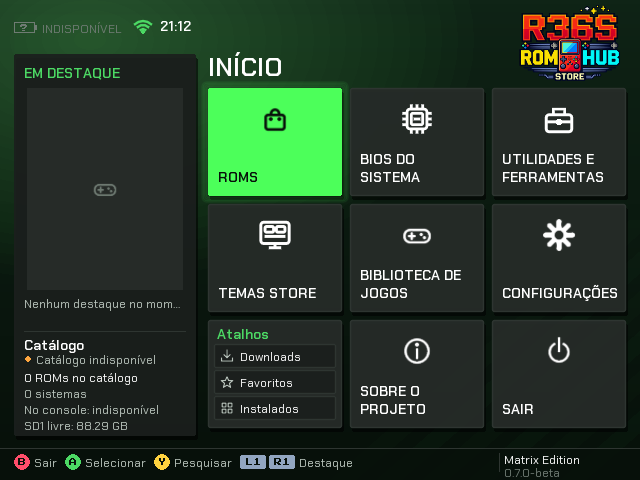
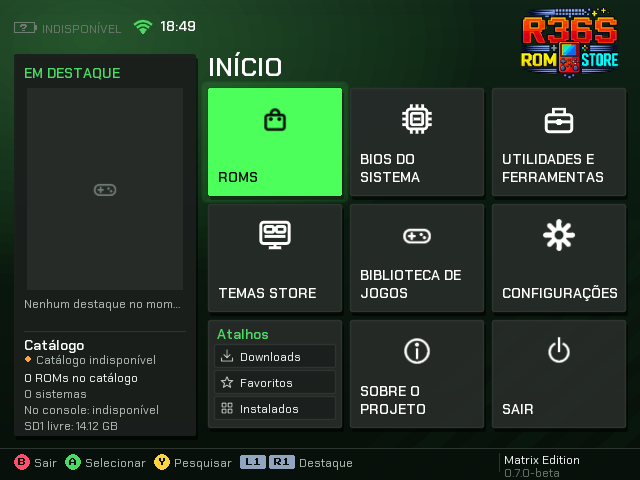
docs: aplicar apresentação aprovada sem antecipar lançamento oficial
Assisted-by: ChatGPT (OpenAI)

Changed region(s): [[0.8125, 0.0, 0.9688, 0.1875], [0.25, 0.0312, 0.3125, 0.0625], [0.125, 0.875, 0.1875, 0.9062]]

diff --git a/docs/README.ru.md b/docs/README.ru.md
@@ -1,0 +1,52 @@
+<p align="center"><img src="images/atual/logo_hd.png" alt="R36S ROM STORE" width="340"></p>
+
+# R36S ROM STORE
+
+<p align="center">
+  <img alt="R36S e R36H" src="https://img.shields.io/badge/Console-R36S%20%7C%20R36H-0891b2?style=for-the-badge">
+  <img alt="Sistemas: dArkOSRE, dArkOS, ArkOS, ArchR, Omni36OS" src="https://img.shields.io/badge/Sistema-dArkOSRE%20%7C%20dArkOS%20%7C%20ArkOS%20%7C%20ArchR%20%7C%20Omni36OS-ffdc49?style=for-the-badge">
+</p>
+
+[🇧🇷 Português](../README.md) · [🇺🇸 English](README.en.md) · [🇪🇸 Español](README.es.md) · [🇷🇺 Русский](README.ru.md)
+
+**Статус:** 0.7.0-beta — официальная бета-версия.
+
+## О проекте
+
+Независимое приложение для ретроигр на R36S и R36H, разработанное на Lua и LÖVE 11.5. Каталог ROM, поиск, обложки, избранное, локальная библиотека, установка на SD1/SD2, BIOS, темы EmulationStation, очередь и история загрузок, инструменты. Две встроенные темы Matrix и Pulse; четыре языка.
+
+## Важно
+
+⚠ **Бета-версия.** Основные функции протестированы в симулированной среде на компьютере и на консолях R36S и R36H. Некоторые функции и сочетания операционных систем требуют дополнительной проверки. Приветствуются сообщения об ошибках, предложения и вклад сообщества.
+
+Создайте резервную копию и используйте только разрешённые материалы. GPL-3.0 не предоставляет прав на сторонние ROM, BIOS, изображения или темы.
+
+## Загрузки
+
+[Официальные выпуски](https://github.com/JammesPark/R36S-ROM-STORE-UPDATES/releases) · [Текущий скрипт запуска (.sh)](../port/R36S%20ROMS%20STORE.sh) (необходим полный ZIP).
+
+## Интерфейс
+
+Утверждённое оформление следующего выпуска; реальные снимки LÖVE в 640×480 из изолированной среды. Доступная версия — 0.7.0-beta.
+
+| Matrix Edition | Pulse Edition |
+|:---:|:---:|
+| <img src="images/atual/matrix-menu.png" width="320" alt="Matrix"> | <img src="images/atual/pulse-menu.png" width="320" alt="Pulse"> |
+
+## Установка
+
+Распакуйте полный ZIP 0.7.0-beta в `ports/` карты. Запустите `R36S ROMS STORE.sh` рядом с `r36sromsstore/` через EmulationStation при наличии LÖVE 11.5. Для первой синхронизации подключитесь к интернету.
+
+## Совместимость и тесты
+
+R36S и R36H проверены сопровождающим проекта на реальных устройствах. dArkOSen тестировался с различиями в управлении; установка на ArchR проверена. dArkOSRE, dArkOS, ArkOS и Omni36OS учитываются при разработке; полная проверка всех сочетаний ещё предстоит.
+
+## Обновления
+
+Для официальных выпусков используйте встроенное сетевое обновление. Перед обновлением создайте резервную копию.
+
+## Разработка и авторство
+
+Lua/LuaJIT/LÖVE, Python, Shell Script, HTML, JSON/YAML/XML, Markdown, GitHub Actions и Cloudflare R2. Основано на R36S PORT HUB автора Lag do Lira; JammesPark поддерживает производный проект при помощи ChatGPT (OpenAI). Исходное авторство и лицензии сохранены.
+
+[Telegram](https://t.me/R36SPORTSBR) · [GitHub Issues](https://github.com/JammesPark/R36S-ROM-STORE/issues) · [GPL-3.0](../LICENSE) · [NOTICE](../NOTICE.md) · [Contributors](../CONTRIBUTORS.md)

diff --git a/docs/README.es.md b/docs/README.es.md
@@ -1,0 +1,52 @@
+<p align="center"><img src="images/atual/logo_hd.png" alt="R36S ROM STORE" width="340"></p>
+
+# R36S ROM STORE
+
+<p align="center">
+  <img alt="R36S e R36H" src="https://img.shields.io/badge/Console-R36S%20%7C%20R36H-0891b2?style=for-the-badge">
+  <img alt="Sistemas: dArkOSRE, dArkOS, ArkOS, ArchR, Omni36OS" src="https://img.shields.io/badge/Sistema-dArkOSRE%20%7C%20dArkOS%20%7C%20ArkOS%20%7C%20ArchR%20%7C%20Omni36OS-ffdc49?style=for-the-badge">
+</p>
+
+[🇧🇷 Português](../README.md) · [🇺🇸 English](README.en.md) · [🇪🇸 Español](README.es.md) · [🇷🇺 Русский](README.ru.md)
+
+**Estado:** 0.7.0-beta — beta oficial.
+
+## Acerca del proyecto
+
+Gestor independiente de juegos retro para R36S y R36H, desarrollado en Lua y LÖVE 11.5. Catálogo de ROMs, búsqueda, carátulas, favoritos, biblioteca local, instalación SD1/SD2, BIOS, temas de EmulationStation, cola e historial de descargas y herramientas. Dos temas integrados, Matrix y Pulse; cuatro idiomas.
+
+## Aviso importante
+
+⚠ **Versión BETA.** Las funciones principales se han probado en un entorno simulado en el ordenador y en las consolas R36S y R36H. Algunas funciones y combinaciones de sistemas operativos aún requieren validación adicional. Se agradecen los informes de errores, sugerencias y contribuciones de la comunidad.
+
+Haga copias de seguridad y utilice únicamente contenido autorizado. GPL-3.0 no concede derechos sobre ROMs, BIOS, imágenes o temas de terceros.
+
+## Descargas
+
+[Versiones oficiales](https://github.com/JammesPark/R36S-ROM-STORE-UPDATES/releases) · [Lanzador actual (.sh)](../port/R36S%20ROMS%20STORE.sh) (requiere el ZIP completo).
+
+## Interfaz
+
+Identidad visual aprobada para la próxima edición; capturas reales de LÖVE a 640×480 en un entorno aislado. La versión disponible sigue siendo 0.7.0-beta.
+
+| Matrix Edition | Pulse Edition |
+|:---:|:---:|
+| <img src="images/atual/matrix-menu.png" width="320" alt="Matrix"> | <img src="images/atual/pulse-menu.png" width="320" alt="Pulse"> |
+
+## Instalación
+
+Extraiga el ZIP completo 0.7.0-beta en `ports/` de la tarjeta. Abra `R36S ROMS STORE.sh` junto a `r36sromsstore/` desde EmulationStation con LÖVE 11.5 disponible. Conéctese a internet para la sincronización inicial.
+
+## Compatibilidad y pruebas
+
+El responsable ha probado físicamente R36S y R36H. Se probó dArkOSen con diferencias de controles y la instalación en ArchR. dArkOSRE, dArkOS, ArkOS y Omni36OS son sistemas de referencia; falta validar por completo todas las combinaciones.
+
+## Actualizaciones
+
+Use el actualizador en línea de la tienda para versiones oficiales. Haga una copia de seguridad antes de actualizar.
+
+## Desarrollo y créditos
+
+Lua/LuaJIT/LÖVE, Python, Shell Script, HTML, JSON/YAML/XML, Markdown, GitHub Actions y Cloudflare R2. Basado en R36S PORT HUB de Lag do Lira; JammesPark mantiene la adaptación con ayuda de ChatGPT (OpenAI). Se preservan los créditos y licencias originales.
+
+[Telegram](https://t.me/R36SPORTSBR) · [GitHub Issues](https://github.com/JammesPark/R36S-ROM-STORE/issues) · [GPL-3.0](../LICENSE) · [NOTICE](../NOTICE.md) · [Contributors](../CONTRIBUTORS.md)

diff --git a/docs/README.en.md b/docs/README.en.md
@@ -1,0 +1,52 @@
+<p align="center"><img src="images/atual/logo_hd.png" alt="R36S ROM STORE" width="340"></p>
+
+# R36S ROM STORE
+
+<p align="center">
+  <img alt="R36S e R36H" src="https://img.shields.io/badge/Console-R36S%20%7C%20R36H-0891b2?style=for-the-badge">
+  <img alt="Sistemas: dArkOSRE, dArkOS, ArkOS, ArchR, Omni36OS" src="https://img.shields.io/badge/Sistema-dArkOSRE%20%7C%20dArkOS%20%7C%20ArkOS%20%7C%20ArchR%20%7C%20Omni36OS-ffdc49?style=for-the-badge">
+</p>
+
+[🇧🇷 Português](../README.md) · [🇺🇸 English](README.en.md) · [🇪🇸 Español](README.es.md) · [🇷🇺 Русский](README.ru.md)
+
+**Status:** 0.7.0-beta — official beta.
+
+## About
+
+Independent retro gaming manager for R36S and R36H, written in Lua and LÖVE 11.5. ROM catalog, search, covers, favorites, local library, SD1/SD2 installation, BIOS, EmulationStation themes, download queue, history and device tools. Two built-in themes, Matrix and Pulse; four languages.
+
+## Important notice
+
+⚠ **BETA version.** The main features have been tested in a simulated environment on a computer and on R36S and R36H handhelds. Some functions and operating-system combinations still need additional validation. Community bug reports, suggestions and contributions are welcome.
+
+Back up your cards and use only content you are authorized to access. The GPL-3.0 software license does not grant rights to third-party ROMs, BIOS, artwork or themes.
+
+## Downloads
+
+[Official releases](https://github.com/JammesPark/R36S-ROM-STORE-UPDATES/releases) · [Current launcher (.sh)](../port/R36S%20ROMS%20STORE.sh) (requires the complete ZIP).
+
+## Interface
+
+Approved visual identity for the next edition; actual LÖVE screenshots at 640×480 from an isolated environment. The currently available release is 0.7.0-beta.
+
+| Matrix Edition | Pulse Edition |
+|:---:|:---:|
+| <img src="images/atual/matrix-menu.png" width="320" alt="Matrix"> | <img src="images/atual/pulse-menu.png" width="320" alt="Pulse"> |
+
+## Installation
+
+Extract the complete 0.7.0-beta ZIP into `ports/` on the card. Open `R36S ROMS STORE.sh` beside `r36sromsstore/` in EmulationStation with LÖVE 11.5 available. Connect to the internet for initial synchronization.
+
+## Compatibility and tests
+
+R36S and R36H have both been physically tested by the maintainer. dArkOSen was tested with controller-mapping differences. Installation on ArchR was tested. dArkOSRE, dArkOS, ArkOS and Omni36OS are reference systems; full validation of every combination remains pending.
+
+## Updates
+
+Use the in-app online updater for official releases. Back up before updating.
+
+## Development and credits
+
+Lua/LuaJIT/LÖVE, Python, Shell Script, HTML, JSON/YAML/XML, Markdown, GitHub Actions and Cloudflare R2. Based on R36S PORT HUB by Lag do Lira; JammesPark maintains the derivative, with assistance from ChatGPT (OpenAI). Original theme/tool authorship and third-party licenses are preserved.
+
+[Telegram](https://t.me/R36SPORTSBR) · [GitHub Issues](https://github.com/JammesPark/R36S-ROM-STORE/issues) · [GPL-3.0](../LICENSE) · [NOTICE](../NOTICE.md) · [Contributors](../CONTRIBUTORS.md)
